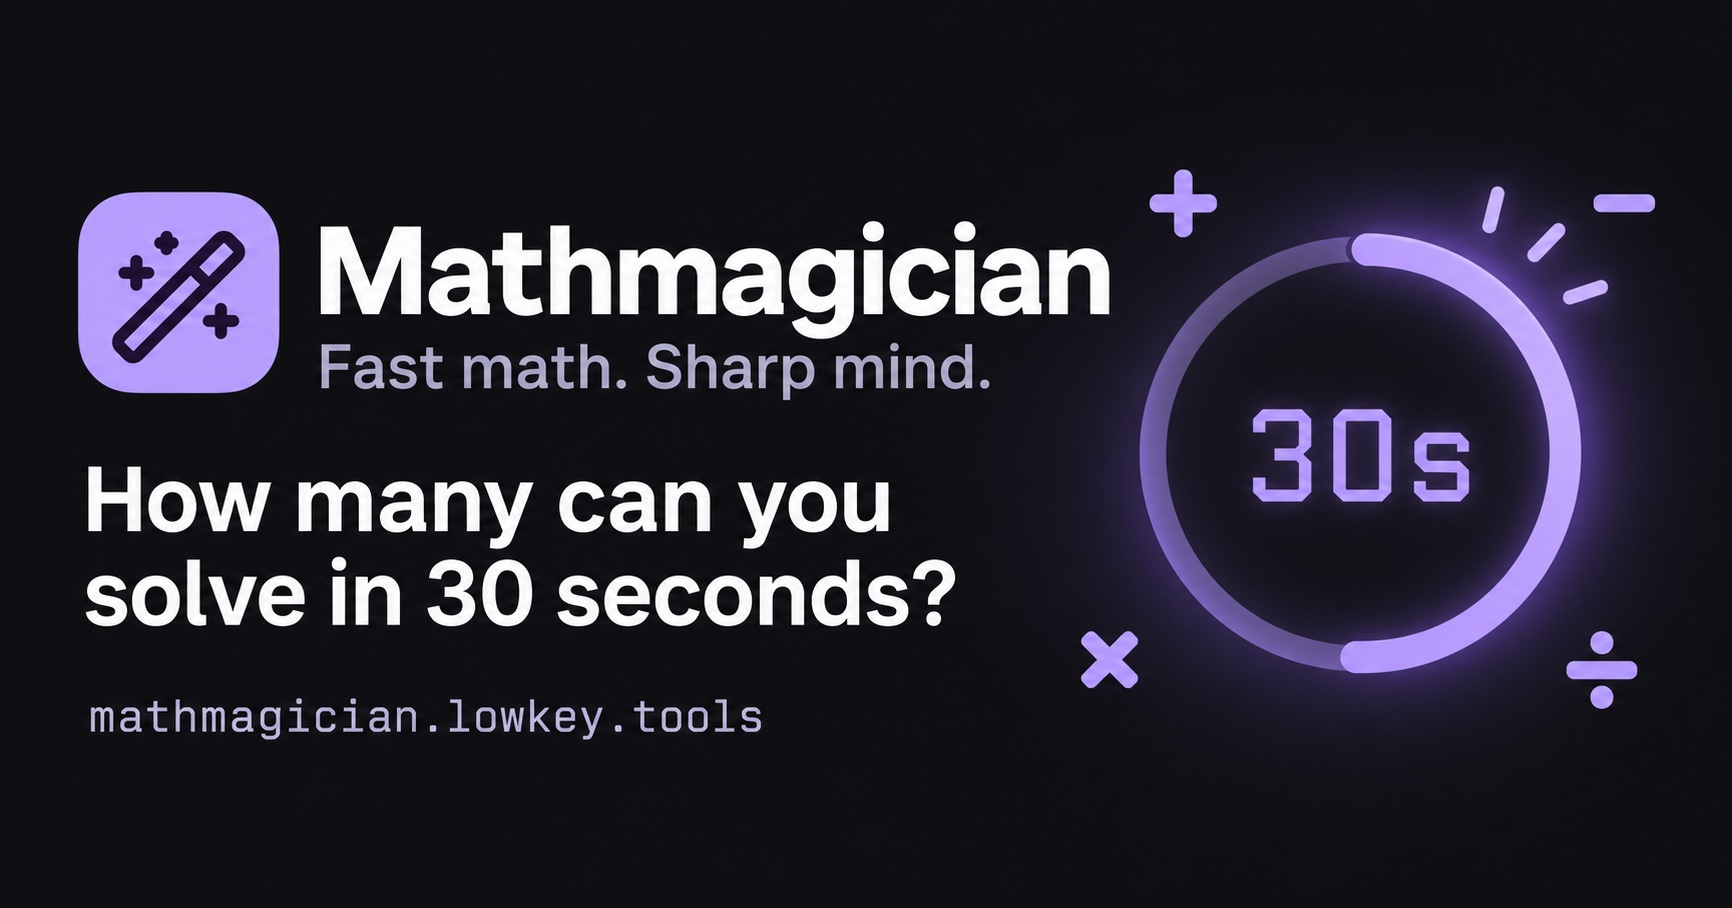
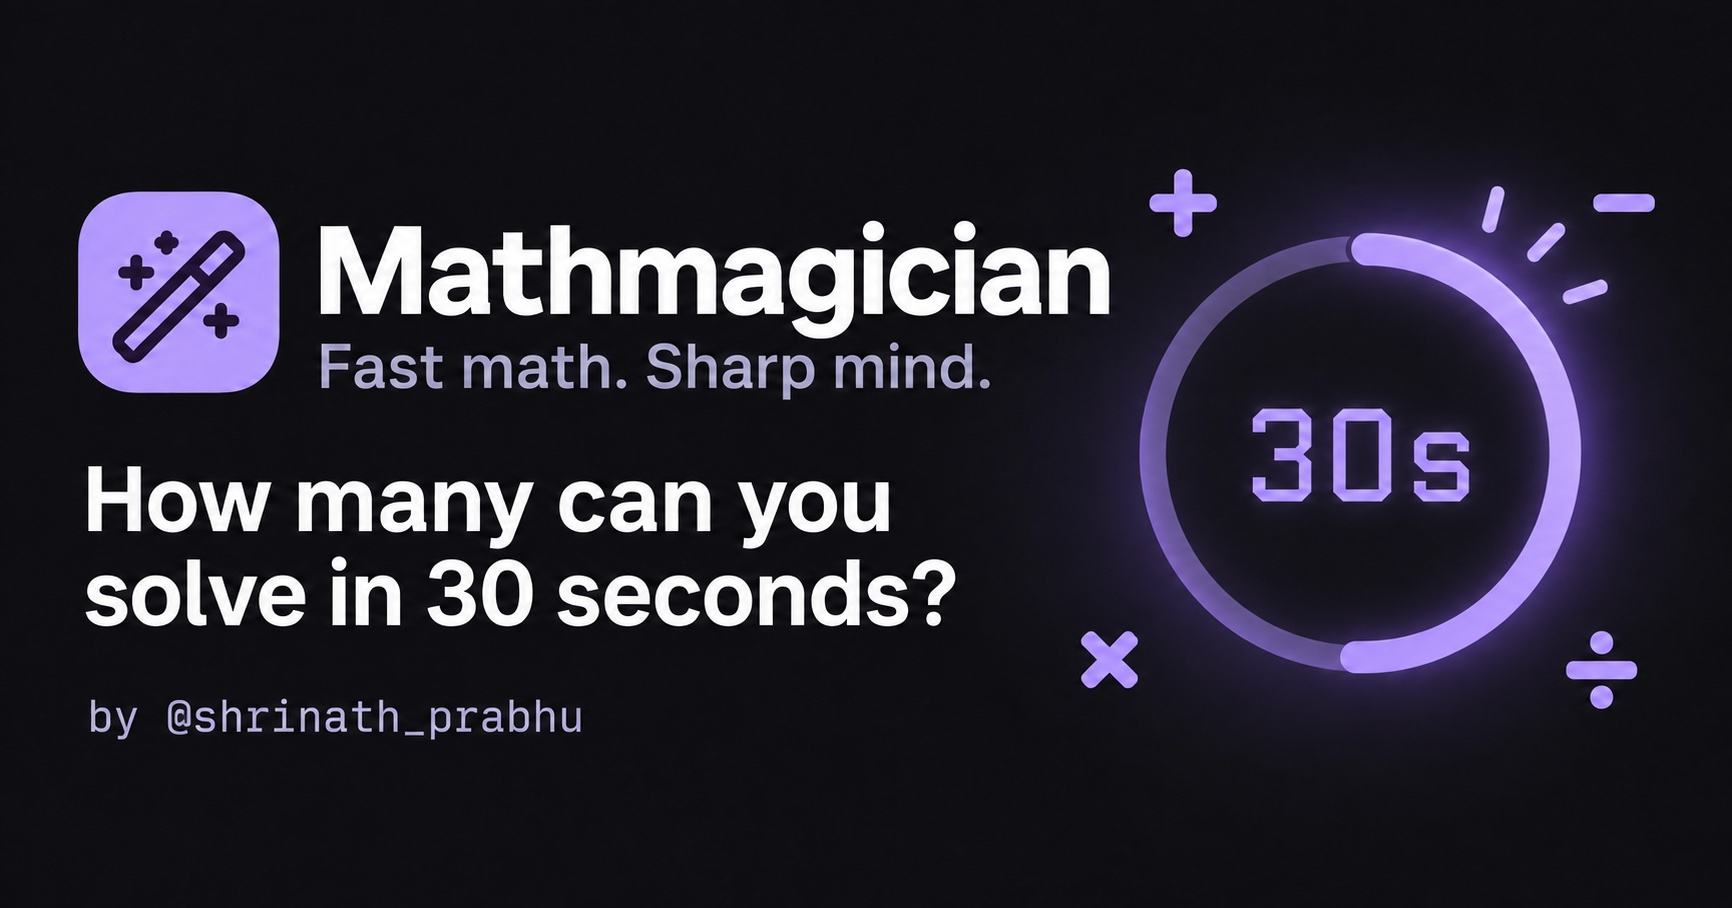
Initial commit

diff --git a/docs/cloudflare-workers.md b/docs/cloudflare-workers.md
@@ -1,0 +1,81 @@
+# Deploy on Cloudflare Workers
+
+Mathmagician deploys with **Workers Static Assets**. It remains a frontend-only PWA with a small hosting-only Worker fallback for error responses. Gameplay, scores, and storage stay in the browser; no server rendering, database, or runtime secrets are required. `cloudflare/wrangler.jsonc` selects the Worker name, the `mathmagician.lowkey.tools` custom domain, and the exported `dist/client` assets. The canonical homepage remains **https://mathmagician.lowkey.tools/**.
+
+## Workers Builds settings
+
+Create a **Worker**, connect its Git repository, and set these values under **Settings → Build**:
+
+| Setting                              | Value                                                             |
+| ------------------------------------ | ----------------------------------------------------------------- |
+| Worker name                          | `mathmagician` (must match the Wrangler configuration)            |
+| Production branch                    | `main`                                                            |
+| Root directory                       | Repository root                                                   |
+| Build command                        | `npm ci && npm run build:workers`                                 |
+| Deploy command                       | `npx wrangler deploy --config cloudflare/wrangler.jsonc`          |
+| Non-production branch deploy command | `npx wrangler versions upload --config cloudflare/wrangler.jsonc` |
+| Build variable                       | `SKIP_DEPENDENCY_INSTALL=1`                                       |
+| Node.js                              | `24`, selected by `.node-version`                                 |
+
+The explicit `npm ci` installs the checked-in lockfile; the build variable disables a duplicate automatic install. Set any existing dashboard `NODE_VERSION` override to `24`. Workers Builds uses build and deploy commands; there is no Pages framework preset or build-output-directory setting to enter. The asset directory comes from Wrangler. Non-production uploads create versions without promoting them to production; the configuration explicitly enables Preview URLs and the `workers.dev` hostname.
+
+All Wrangler commands explicitly select the nested configuration. Its `../dist/client` path resolves relative to `cloudflare/wrangler.jsonc`. Keeping the configuration outside the repository root prevents Vinext from switching this static export into its server-side Workers build path. Keep build commands at the repository root. The compatibility date is pinned to `2026-09-10`, supported by the checked-in Wrangler version's local runtime.
+
+References: [Workers Builds configuration](https://developers.cloudflare.com/workers/ci-cd/builds/configuration/), [build image and Node version](https://developers.cloudflare.com/workers/ci-cd/builds/build-image/), [Static Assets configuration](https://developers.cloudflare.com/workers/static-assets/binding/).
+
+## Local build and preview
+
+```sh
+npm ci
+npm run build:workers
+npm run preview:workers
+```
+
+Open the local URL printed by Wrangler. This runs the native Workers static-asset runtime, including the generated security headers, cache policy, and HTML routing. It does not publish anything. Pass `-- --port 8876` if the default port is occupied.
+
+To validate deployment packaging without publishing:
+
+```sh
+npx wrangler deploy --config cloudflare/wrangler.jsonc --dry-run
+```
+
+`build:workers` generates HTML, discovery files, the complete offline precache, and CSP hashes for that exact HTML. Wrangler uploads **`dist/client` as static assets** and bundles `cloudflare/worker.mjs` as the fallback handler. It reads the generated `_headers` as deployment policy; the file is not publicly served. `dist/server` contains framework intermediates or the separate Sites preview adapter and is never uploaded to this Worker.
+
+## Deploy from a local checkout
+
+Authenticate once with your Cloudflare account, then build and deploy:
+
+```sh
+npx wrangler login
+npm run deploy:workers
+```
+
+The command builds first, then runs `wrangler deploy` with the nested configuration. For non-production versions, build and use `npx wrangler versions upload --config cloudflare/wrangler.jsonc` instead. Do not use `deploy:workers` as the dashboard deploy command after its build step, since that would build twice.
+
+## Production hostname
+
+The checked-in Wrangler configuration declares the domain:
+
+```json
+{
+  "routes": [
+    { "pattern": "mathmagician.lowkey.tools", "custom_domain": true }
+  ]
+}
+```
+
+`npm run deploy:workers` builds and deploys the Worker and applies this custom-domain association. You do not need to add it manually in the dashboard. The `lowkey.tools` zone must be active in the deploying Cloudflare account. Cloudflare provisions the DNS record and certificate; resolve any existing conflicting CNAME or domain association during cutover. See [Workers custom domains](https://developers.cloudflare.com/workers/configuration/routing/custom-domains/).
+
+The route pattern is a hostname only, without `https://`, a path, a trailing slash, or a wildcard. This does not change the trailing slash in the canonical URL. `workers_dev` and `preview_urls` are explicitly enabled for the default Cloudflare hostname and version previews. To review a new version without moving production traffic, use the documented `wrangler versions upload` command. Builds, local previews, and `--dry-run` do not deploy or change DNS.
+
+Canonical, Open Graph, JSON-LD, sitemap, share text, and `llms.txt` continue to identify `https://mathmagician.lowkey.tools/`. The manifest and service worker retain scope `/`; there is no `/mathmagician` proxy prefix.
+
+## Routing, security, and caching
+
+`assets.html_handling: "auto-trailing-slash"` normalizes HTML URLs. `assets.not_found_handling: "404-page"` serves the exported error document with HTTP 404 for unknown paths, including missing assets. It does not rewrite every URL to the homepage. Existing assets bypass `cloudflare/worker.mjs`; unmatched requests reach this small handler, which preserves the static error document and security headers while setting `Cache-Control: no-store` and `X-Robots-Tag: noindex`. This prevents a missing hashed file from inheriting the one-year cache rule. `assets_navigation_has_no_effect` ensures missing browser navigations use the same fallback. See [static sites and custom 404 pages](https://developers.cloudflare.com/workers/static-assets/routing/static-site-generation/).
+
+Workers reads `dist/client/_headers` directly. The policy includes the build-specific CSP, HSTS, framing/MIME protection, permissions, and browser caching. HTML, the service worker, and the manifest revalidate; hashed assets are immutable for one year. Use the generated `_headers`, since its source template does not contain the final CSP hashes. See [shared security policy](security.md) and [Workers headers](https://developers.cloudflare.com/workers/static-assets/headers/).
+
+Keep managed asset caching. Avoid a zone-wide Cache Everything rule or post-build HTML/script transformations that could cache an old shell or invalidate the CSP. The fallback copies the headers from `ASSETS.fetch()` and adjusts only the 404 policy. Any future response generated independently by Worker code will need explicit security headers; `_headers` applies to static asset responses.
+
+After deployment, verify the public hostname serves the homepage, scripts, fonts, manifest, `sw.js`, `og.jpg`, and discovery files without authentication; check CSP/cache headers, a real 404, and installation/offline play on a device. Local validation does not verify account-level rules, DNS, TLS, or a live deployment.

diff --git a/docs/security.md b/docs/security.md
@@ -1,8 +1,8 @@
-# Security, caching, and Vercel
+# Security, caching, and static hosting
 
-This is a static browser app without an application backend. `public/_headers` is the shared policy template. After exporting HTML, `scripts/build-security.mjs` adds hashes for the exact inline scripts in that build. It writes Cloudflare `_headers` and private build metadata; `scripts/build-vercel.mjs` translates the same policy into Vercel Build Output API routes.
+This is a static browser app without an application backend. `public/_headers` is the shared policy template. After exporting HTML, `scripts/build-security.mjs` adds hashes for the exact inline scripts in that build. Cloudflare Workers Static Assets reads the generated `_headers` directly. `npm run build:workers` generates the production static assets and policy.
 
-Sites' default static serving does not apply `_headers` and serves recognized files before invoking a Worker. The dedicated preview package generated by `scripts/build-sites.mjs` therefore bundles the exported files into a standalone static response Worker. It applies the shared headers, MIME types, ETags, conditional/HEAD responses, and real 404s. Files decode lazily and the build enforces a 3 MB compressed script budget. It has no game logic, database, API, or user state. Vercel uses ordinary static files with native rules and does not need this adapter.
+Sites' default static serving does not apply `_headers` and serves recognized files before invoking a Worker. The dedicated preview package generated by `scripts/build-sites.mjs` therefore bundles the exported files into a standalone static response Worker. It applies the shared headers, MIME types, ETags, conditional/HEAD responses, and real 404s. Files decode lazily and the build enforces a 3 MB compressed script budget. It has no game logic, database, API, or user state. Cloudflare Workers Static Assets uses ordinary static files with native rules and does not need this embedding adapter.
 
 ## Response headers
 
@@ -27,27 +27,20 @@ If adding external scripts, analytics, embedded content, or a platform preview t
 | robots.txt, sitemap.xml, llms.txt, Markdown guide             | One hour                                 |
 | Missing pages / 404                                           | `no-store`, `noindex`                    |
 
-Vercel supplies CDN compression and its normal conditional response handling. The app does not override these with a separate surrogate cache that could outlive the browser policy.
+Cloudflare Workers Static Assets supplies CDN compression and conditional response handling. The app does not override these with a separate surrogate cache that could outlive the browser policy.
 
 Offline caching is separate from HTTP caching. The service worker precaches a consistent release and activates after older tabs close. Its version includes response-header rules, so a policy-only change replaces previously cached HTML too. Registration uses `updateViaCache: 'none'` to bypass HTTP caches when checking worker updates. A tab already open offline continues using its installed release until it reconnects and updates.
 
-## Deploy on Vercel
+## Deploy on Cloudflare Workers
 
-The checked-in `vercel.json` selects the custom static build and runs:
+`npm run build:workers` exports `dist/client`, and `cloudflare/wrangler.jsonc` selects that directory for `preview:workers` and `deploy:workers`. Workers applies the generated `_headers` directly. Explicit `404-page` handling preserves HTTP 404 responses for unknown paths. `/404.html` and `/404` have error-document headers for HTML URL normalization. Existing files use native asset serving. The hosting-only `cloudflare/worker.mjs` fallback fetches the static error document and preserves its security headers, then sets `no-store` and `noindex` on HTTP 404 responses. Missing navigations use this handler too. This prevents missing files from inheriting the hashed-asset cache policy; it adds no game backend. Use the [Workers deployment settings](cloudflare-workers.md) for dashboard commands, CLI, Node version, and custom domain setup.
 
-```sh
-npm ci
-npm run build:vercel
-```
+After a real Workers deployment, inspect response headers on the homepage, one hashed asset, manifest, service worker, and a missing URL. Confirm the same checks on the public hostname, since a reverse proxy or authentication gateway can change responses. Repository checks validate generated policy and artifacts, not account-level firewall settings.
 
-The result is `.vercel/output/config.json` plus `.vercel/output/static/`, using Build Output API version 3. Vercel reads this output directly; do not select a Next.js server preset or add an unrelated Output Directory override. Deployment credentials and project linking are separate from this repository configuration.
+The production hostname is **https://mathmagician.lowkey.tools/**. Its custom-domain route is declared in `cloudflare/wrangler.jsonc` and applied by `wrangler deploy`. The canonical root slash stays consistent; the route pattern itself is a hostname without a scheme, slash, or wildcard.
 
-The production hostname is **https://mathmagician.lowkey.tools/**. Attach it to this Vercel project and use the DNS records shown by Vercel for that hostname. There is a single root-hosted build; the former path-prefix build option has been removed.
+## Sites preview and local serving
 
-The homepage maps locally to `index.html`; all asset URLs, the manifest, and the service-worker scope start at `/`. Files resolve normally and unknown paths receive the exported error page with HTTP 404. No request is proxied to Lowkey Tools, and no catch-all route serves the homepage with status 200. The Vercel project remains separate from the Lowkey Tools directory. See [SEO deployment notes](seo.md).
+For Sites, use `npm run build` and pass the generated `work/sites-deploy/` project directory to the Sites packaging helper. It contains the standalone response Worker and copied Sites metadata. Do not include a separate `dist/client/` directory in that preview archive: Sites would serve those files before the response policy. The original `dist/client/` remains the native asset directory for Cloudflare Workers. For local HTTP checks, `npm start` applies the generated `_headers` policy.
 
-For Sites, use `npm run build` and pass the generated `work/sites-deploy/` project directory to the Sites packaging helper. This contains the standalone Worker and copied Sites metadata. Do not include a separate `dist/client/` directory in that preview archive: Sites would serve those files before the response policy. The original `dist/client/` remains the output for other static hosts and the input for Vercel packaging. For local HTTP checks, `npm start` applies the generated `_headers` policy.
-
-After a real Vercel/canonical deployment, inspect response headers on the homepage, one hashed asset, manifest, service worker, and a missing URL. Confirm the same checks on the public hostname, since a reverse proxy or authentication gateway can change responses. Repository checks validate generated policy and artifacts, not account-level firewall settings.
-
-References: [Vercel security headers](https://vercel.com/docs/cdn-security/security-headers), [Build Output API configuration](https://vercel.com/docs/build-output-api/configuration), [Cloudflare static asset headers](https://developers.cloudflare.com/workers/static-assets/headers/).
+References: [Cloudflare Workers Static Assets headers](https://developers.cloudflare.com/workers/static-assets/headers/), [Workers custom domains](https://developers.cloudflare.com/workers/configuration/routing/custom-domains/).

diff --git a/README.md b/README.md
@@ -6,6 +6,8 @@ A frontend-only, installable mental math sprint app. Game state and personal rec
 
 Use Node 22.18+ or 24+ for built-in TypeScript test support.
 
+`.node-version` selects Node 24 for Cloudflare Workers Builds and compatible local version managers.
+
 ```sh
 npm ci
 npm run dev
@@ -40,13 +42,15 @@ All app, social-share, Open Graph, canonical, footer, and sitemap references use
 
 ## PWA and deployment
 
-The social preview at `public/og.jpg` is a 1732 × 908 JPEG (about 242 kB) using the app’s wand branding. Open Graph, X large-image cards, and JSON-LD reference the same absolute image URL on the canonical host.
+The social preview at `public/og.jpg` is a 1732 × 908 JPEG (about 247 kB) using the app’s wand branding and a single “by @shrinath_prabhu” credit. Open Graph, X large-image cards, and JSON-LD reference the same absolute image URL on the canonical host.
 
 The favicon and header share `public/mathmagician.svg`. The manifest’s 192/512 icons, maskable icon, and Apple touch icon are size exports of that same wand artwork. Geist Sans powers the interface; Geist Mono powers calculations, timers, and scores. Both variable WOFF2 fonts are self-hosted, preloaded, and included in the offline cache. No runtime third-party font or CDN requests are required. Open once online to precache; then the game works offline. Updates activate after old tabs close so HTML and its hashed assets stay on one version.
 
-The production build targets **mathmagician.lowkey.tools** directly. All builds use the domain root for scripts, styles, icons, the manifest, and the service worker. Run `npm run build:vercel` for the native Vercel bundle, and attach that hostname to the Vercel project. No proxy or path-prefix deployment is needed. `npm start` previews the same root layout locally. The existing Sites preview uses its own hostname with the same root paths.
+The production build targets **mathmagician.lowkey.tools** directly. All builds use the domain root for scripts, styles, icons, the manifest, and the service worker. Use Workers Static Assets for production. The Wrangler configuration declares `mathmagician.lowkey.tools` as a custom domain. No proxy or path-prefix deployment is needed. `npm start` previews the same root layout locally. The existing Sites preview uses its own hostname with the same root paths.
 
-Security headers include a build-specific script CSP, HSTS, framing/MIME protection, and restricted browser permissions. HTTP caching distinguishes immutable hashed assets from files that need revalidation. A small Sites hosting adapter applies these rules to its static asset responses; gameplay and storage remain in the browser. `vercel.json` runs `npm run build:vercel` to generate native static routes, matching headers, and real 404 responses. See [security, caching, and Vercel deployment](docs/security.md) for subdomain deployment and verification.
+Cloudflare Workers uses `cloudflare/wrangler.jsonc` to serve **`dist/client`** with native static-asset routing, security/cache headers, and offline assets. For Workers Builds, use build command `npm ci && npm run build:workers`, deploy command `npx wrangler deploy --config cloudflare/wrangler.jsonc`, and build variable `SKIP_DEPENDENCY_INSTALL=1`. `npm run preview:workers` runs the local Workers runtime; `npm run deploy:workers` builds and deploys from a local checkout. See [Cloudflare Workers settings, custom domain, and CLI deployment](docs/cloudflare-workers.md).
+
+Security headers include a build-specific script CSP, HSTS, framing/MIME protection, and restricted browser permissions. HTTP caching distinguishes immutable hashed assets from files that need revalidation. A small Sites hosting adapter applies these rules to its static asset responses; gameplay and storage remain in the browser. The Workers fallback keeps missing pages and assets as real 404 responses with `no-store` caching. See [security, caching, and Workers deployment](docs/security.md) for subdomain deployment and verification.
 
 ## Search and answer engines
 

diff --git a/docs/seo.md b/docs/seo.md
@@ -6,7 +6,7 @@ The canonical URL is **https://mathmagician.lowkey.tools/**. The Sites deploymen
 
 - One canonical URL across HTML, Open Graph, sharing, sitemap, JSON-LD, and Markdown documents.
 - Descriptive title and description, authorship, Open Graph/X metadata, language, and index/follow directives.
-- A matching 1732 × 908 social card at `/og.jpg` (about 242 kB), with an absolute canonical image URL, alt text, dimensions, X large-image metadata, and JSON-LD image references. The image uses a one-day revalidated cache policy.
+- A matching 1732 × 908 social card with only “by @shrinath_prabhu” as its credit at `/og.jpg` (about 247 kB), with an absolute canonical image URL, alt text, dimensions, X large-image metadata, and JSON-LD image references. The image uses a one-day revalidated cache policy.
 - Static HTML instructions, mode descriptions, example arithmetic, scoring definitions, local-storage/offline limitations, and native FAQ disclosures. These remain readable without JavaScript; gameplay requires it.
 - A connected JSON-LD graph describing the WebApplication, WebPage, Lowkey Tools WebSite, breadcrumb, FAQPage, Shrinath Prabhu, and OwlEye. FAQ answers come from the same data as the visible page. No invented ratings, reviews, measured averages, or performance claims.
 - Sitemap, robots.txt, llms.txt, and an alternate Markdown guide at `index.md`. Discovery links appear in the document head. The Markdown copy gets an HTTP `noindex` header to avoid competing with the interactive canonical page; it is still publicly fetchable.
@@ -20,11 +20,10 @@ The canonical URL is **https://mathmagician.lowkey.tools/**. The Sites deploymen
 
 ```sh
 npm ci
-npm run build:vercel
-npm test
+npm run build:workers
 ```
 
-Attach **mathmagician.lowkey.tools** to this Vercel project. The generated `.vercel/output/static/` files are served from the domain root. The manifest lives at `/manifest.webmanifest`, the service worker at `/sw.js` with scope `/`, and scripts/styles/fonts at `/_next/static/`. No proxy rewrite, base-path environment variable, or merge into another app’s deployment is required. See [security and caching](security.md) for the generated Vercel rules.
+The Wrangler configuration declares **mathmagician.lowkey.tools** as a Workers custom domain; a production deployment applies that association. The generated `dist/client/` files are served from the domain root. The manifest lives at `/manifest.webmanifest`, the service worker at `/sw.js` with scope `/`, and scripts/styles/fonts at `/_next/static/`. No proxy rewrite, base-path environment variable, or merge into another app’s deployment is required. See [Workers deployment settings](cloudflare-workers.md) and [security and caching](security.md).
 
 The generated discovery endpoints are:
 
